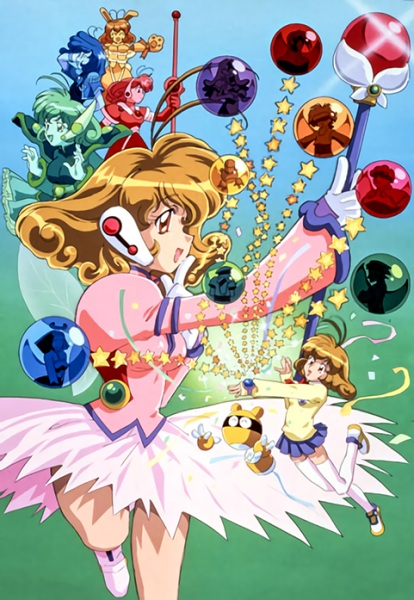
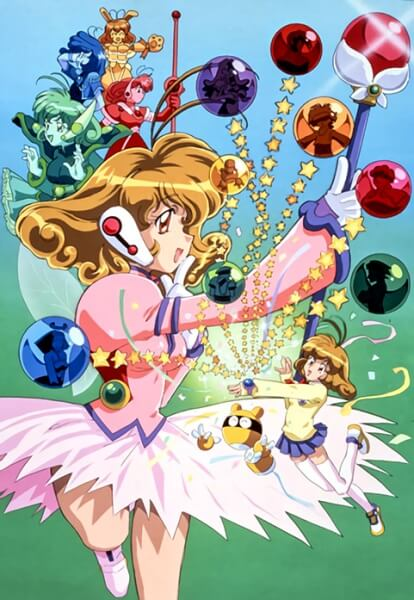
Reduzco tamaño de imagenes

diff --git a/index.html b/index.html
@@ -13,7 +13,7 @@
         <nav class="navbar navbar-expand-md">
             <div class="container-fluid">
                 <a class="navbar-brand" href="index.html">
-                    <img src="images/logo.png" />
+                    <img src="images/logo.png" alt="Logo de nostalgia del anime"/>
                 </a>
                 <button 
                     class="navbar-toggler" 
